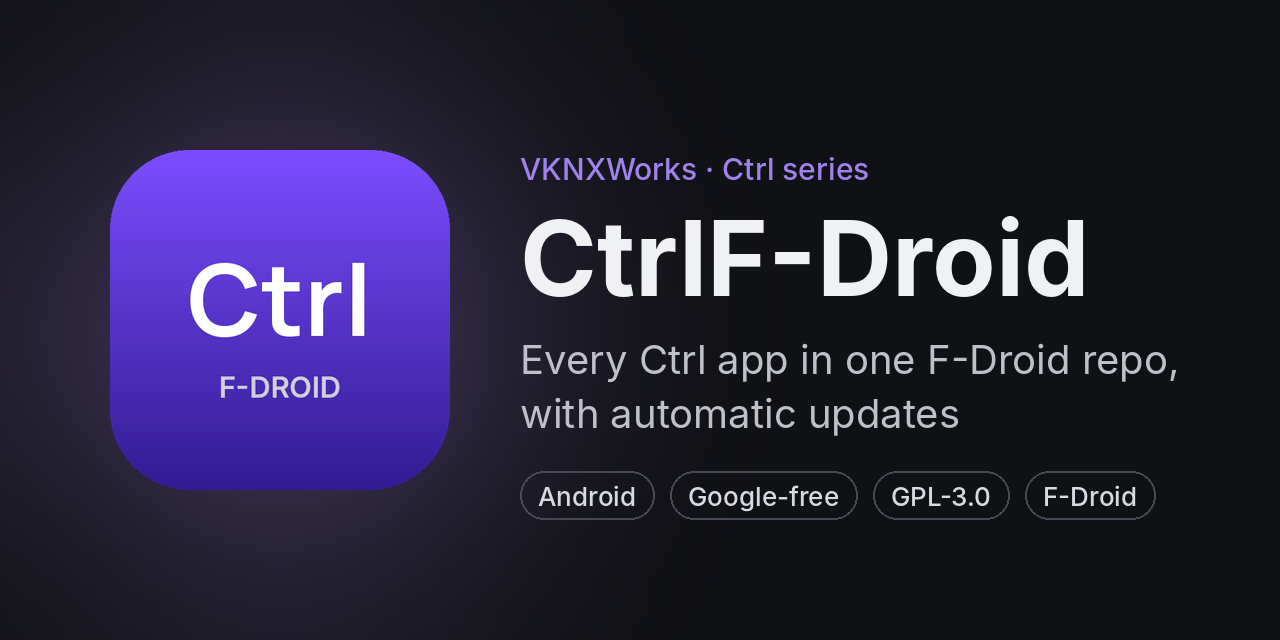
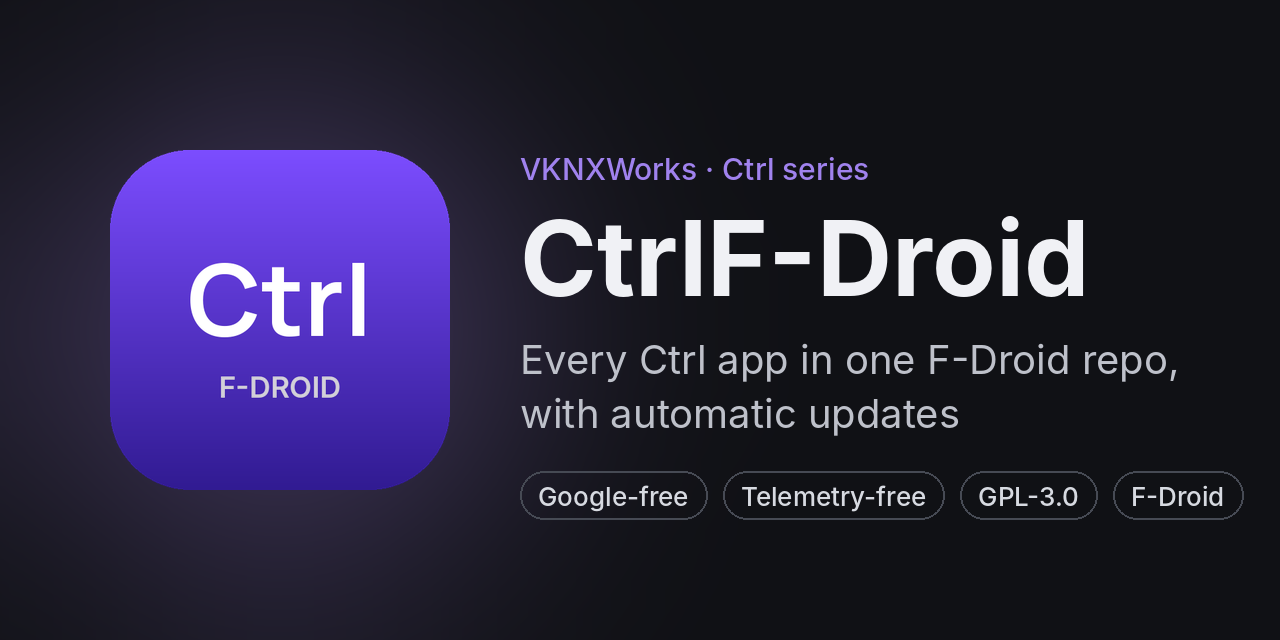
Listings: every Ctrl app is telemetry-free
Claude-Session: https://claude.ai/code/session_01EwhEpZ1DKRJef9Cqeiv5g2

Changed region(s): [[0.4062, 0.7188, 0.9688, 0.8125]]

diff --git a/CHANGELOG.md b/CHANGELOG.md
@@ -6,7 +6,8 @@ Changes to the CtrlF-Droid repo itself: how it checks, signs and publishes the C
 
 ### Changed
 
-- **Link preview image** for the repo in `assets/social-preview.png`, with the CtrlF-Droid icon and "Every Ctrl app in one F-Droid repo, with automatic updates", for when the repo is shared on Reddit, Discord or elsewhere.
+- **Every listing says the app is telemetry-free.** The Ctrl apps no longer have optional usage stats, so the line about them is replaced by: no analytics, crash reporting, usage stats or tracking of any kind. BeamCtrl's listing also says it has no internet permission at all. The repo's README says the same.
+- **Link preview image** for the repo in `assets/social-preview.png`, with the CtrlF-Droid icon, "Every Ctrl app in one F-Droid repo, with automatic updates" and Google-free, Telemetry-free, GPL-3.0 and F-Droid tags, for when the repo is shared on Reddit, Discord or elsewhere.
 
 ## 2026-10-19
 

diff --git a/README.md b/README.md
@@ -4,6 +4,8 @@
 
 Add this repo to F-Droid, Droid-ify or Neo Store and get every Ctrl app with automatic updates.
 
+Every Ctrl app is **Google-free** and **telemetry-free**: no Google Play services, no analytics, no crash reporting, no usage stats. They only talk to the servers you add.
+
 👉 **[Add the repo](https://voidedkn0x.github.io/CtrlF-Droid/)** (open on your phone, or scan the QR code there)
 
 ## Apps
